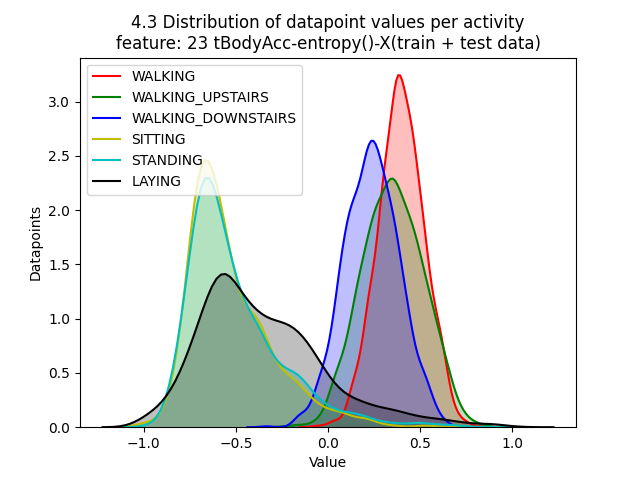
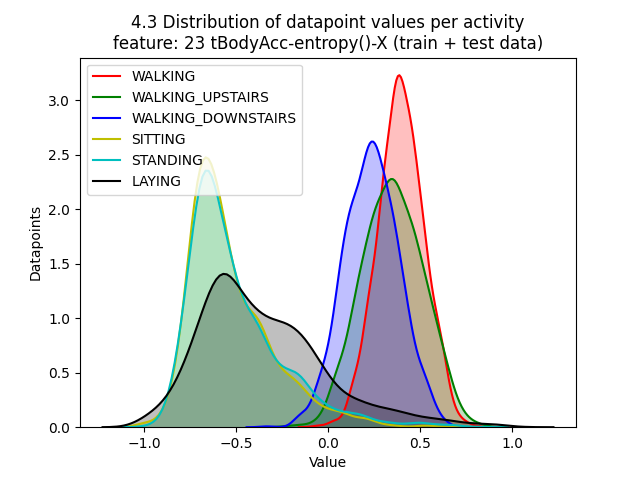
4_9

diff --git a/src/4_9.py b/src/4_9.py
@@ -14,8 +14,8 @@ separator = ','
 df = pd.read_csv(data_file_path, sep=separator, infer_datetime_format=True, parse_dates=['dt'])
 
 # cleanup data (remove NaN)
-df = df[df['AverageTemperature'].notnull()]
-df = df[df['AverageTemperatureUncertainty'].notnull()]
+# //df = df[df['AverageTemperature'].notnull()]
+# //df = df[df['AverageTemperatureUncertainty'].notnull()]
 
 # group data by country
 temps = {g: x for g, x in df.groupby('Country')}
@@ -34,9 +34,9 @@ for i in range(0, len(countries)):
     country = countries[i]
     temp = temps[country]
     # resample data from per month to per year
-    temp = temp.groupby(temp['dt'].dt.year).mean()
-    print(country)
-    print(temp)
+    temp = temp.set_index('dt')
+    # select 1864 up to and including 2012 (consistent between countries)
+    temp = temp[-(12 * 150) + 3:-9]
     selected_temps[country] = temp
     location = int('22' + str(i + 1))
     ax = fig.add_subplot(location)
@@ -45,6 +45,9 @@ for i in range(0, len(countries)):
     ax.set_xlabel('Date')
     ax.set_ylabel('Temperature')
 
+print('a)')
+print('')
+print('The data is shown in 4_9_a.png (per month).')
 fig.tight_layout(rect=[0, 0.03, 1, 0.95])
 plt.savefig(wd[:-4] + '/img/4_9_a.png')
 
@@ -54,50 +57,151 @@ for i in range(0, len(countries)):
         if countries[i] != countries[j]:
             pairs.append((countries[i], countries[j]))
 
+print('')
+print('k nearest neighbour distances between two countries (mean):')
 for pair in pairs:
-    t1 = np.array(list(selected_temps[pair[0]]['AverageTemperature'].to_dict().items()))
-    t2 = np.array(list(selected_temps[pair[1]]['AverageTemperature'].to_dict().items()))
+    t1 = np.array([(g.year, x) for g, x in
+                   list(selected_temps[pair[0]]['AverageTemperature'].to_dict().items()) if not np.isnan(x)])
+    t2 = np.array([(g.year, x) for g, x in
+                   list(selected_temps[pair[1]]['AverageTemperature'].to_dict().items()) if not np.isnan(x)])
     neigh = NearestNeighbors(n_neighbors=1)
-    # print(t1.max())
     neigh.fit(t1)
     dists, inds = neigh.kneighbors(t2)
-    # print(inds)
-    print('{} {} {}'.format(pair[0], pair[1], np.mean(dists)))
+    print('\t{} {} {}'.format(pair[0], pair[1], np.mean(dists)))
+
+print('')
+print('We can see that the temperature data for Norway and Finland is quite similar, and so is the data for Cambodia\n'
+      'and Singapore, since they have the least difference between them. This is to be expected, considering the\n'
+      'geographical locations of the countries.')
 
 # b)
 
+print('')
+print('b)')
+print('')
+print('Dickey-Fuller tests for the four countries:')
 for country in countries:
     temp = selected_temps[country]
+    temp = temp.resample('Y').mean()
     result = adfuller(temp['AverageTemperature'], autolag='AIC')
-    print(country)
-    print('ADF Statistic: %f' % result[0])
-    print('p-value: %f' % result[1])
-    print('Critical Values:')
+    print('\tDickey-Fuller test for ' + country)
+    print('\tADF Statistic: %f' % result[0])
+    print('\tp-value: %f' % result[1])
+    print('\tCritical Values:')
     for key, value in result[4].items():
-        print('\t%s: %.3f' % (key, value))
+        print('\t\t%s: %.3f' % (key, value))
+
+print('')
+print('For Norway and Finland the outcome is good enough for the data to be considered stationary, but not for\n'
+      'Cambodia and Singapore.')
 
 # c)
 
+print('')
+print('c)')
+print('')
+print('The decompositions of the data for the countries is shown in 4_9_Decomposition_[country].png.')
+decomposed_temps = {}
+
 for country in countries:
     temp = selected_temps[country]
-    decomposition = seasonal_decompose(temp['AverageTemperature'])
+    decomposition = seasonal_decompose(temp['AverageTemperature'], extrapolate_trend='freq')
     trend = decomposition.trend
-    print(trend)
     seasonal = decomposition.seasonal
     residual = decomposition.resid
+    decomposed_temps[country] = decomposition
+
     fig = plt.figure()
-    ax = fig.subplot(411)
-    ax.plot(temp['AverageTemperature'][-150:], label='Original')
+    ax = fig.add_subplot(411)
+    ax.plot(temp['AverageTemperature'], label='Original')
     ax.legend(loc='best')
-    ax = fig.subplot(412)
-    ax.plot(temp.index, trend[-150:].values, label='Trend')
+    ax = fig.add_subplot(412)
+    ax.plot(temp.index, trend.values, label='Trend')
     ax.legend(loc='best')
-    ax = fig.subplot(413)
-    ax.plot(ts_euro_week_log_select.index.to_pydatetime(), seasonal[-100:].values, label='Seasonality')
+    ax = fig.add_subplot(413)
+    ax.plot(temp.index, seasonal.values, label='Seasonality')
     ax.legend(loc='best')
-    ax = fig.subplot(414)
-    ax.plot(ts_euro_week_log_select.index.to_pydatetime(), residual[-100:].values, label='Residuals')
+    ax = fig.add_subplot(414)
+    ax.plot(temp.index, residual.values, label='Residuals')
     ax.legend(loc='best')
-    fig.tight_layout()
+    fig.suptitle('Decomposition for ' + country)
+    fig.tight_layout(rect=[0, 0.03, 1, 0.95])
+    plt.savefig(wd[:-4] + '/img/4_9_b_Decompostion_' + country + '.png')
 
+print('')
+print('Dickey-Fuller tests for the four countries:')
+for country in countries:
+    residual = decomposed_temps[country].resid.values
+    residual = np.mean(residual.reshape(-1, 12), axis=1)
+    result = adfuller(residual, autolag='AIC')
+    print('\tDickey-Fuller test after decomposition for ' + country)
+    print('\tADF Statistic: %f' % result[0])
+    print('\tp-value: %f' % result[1])
+    print('\tCritical Values:')
+    for key, value in result[4].items():
+        print('\t\t%s: %.3f' % (key, value))
 
+print('')
+print('For all countries the outcome is good enough for the data to be considered stationary.')
+
+print('')
+print('k nearest neighbour distances between two countries (mean):')
+for pair in pairs:
+    t1 = np.array([(g.year, x) for g, x in
+                   list(decomposed_temps[pair[0]].resid.to_dict().items()) if not np.isnan(x)])
+    t2 = np.array([(g.year, x) for g, x in
+                   list(decomposed_temps[pair[1]].resid.to_dict().items()) if not np.isnan(x)])
+    neigh = NearestNeighbors(n_neighbors=1)
+    neigh.fit(t1)
+    dists, inds = neigh.kneighbors(t2)
+    print('\t{} {} {}'.format(pair[0], pair[1], np.mean(dists)))
+
+print('')
+print('The differenced data for the countries is shown in 4_9_Differencing_[country].png.')
+for country in countries:
+    temp = selected_temps[country]
+    temp_diff = temp['AverageTemperature'] - temp['AverageTemperature'].shift()
+
+    fig = plt.figure()
+    ax = fig.add_subplot(211)
+    ax.plot(temp['AverageTemperature'], label='Original')
+    ax.legend(loc='best')
+    ax = fig.add_subplot(212)
+    ax.plot(temp_diff, label='After Differencing')
+    ax.legend(loc='best')
+    fig.suptitle('Decomposition for ' + country)
+    fig.tight_layout(rect=[0, 0.03, 1, 0.95])
+    plt.savefig(wd[:-4] + '/img/4_9_b_Differencing_' + country + '.png')
+
+print('')
+print('Dickey-Fuller tests for the four countries:')
+for country in countries:
+    temp = selected_temps[country]
+    temp_diff = temp['AverageTemperature'] - temp['AverageTemperature'].shift()
+    temp_diff = temp_diff.resample('Y').mean()
+    result = adfuller(temp_diff, autolag='AIC')
+    print('\tDickey-Fuller test after differencing for ' + country)
+    print('\tADF Statistic: %f' % result[0])
+    print('\tp-value: %f' % result[1])
+    print('\tCritical Values:')
+    for key, value in result[4].items():
+        print('\t\t%s: %.3f' % (key, value))
+
+print('')
+print('For all countries the outcome is good enough for the data to be considered stationary.')
+
+print('')
+print('k nearest neighbour distances between two countries (mean):')
+for pair in pairs:
+    t1 = np.array([(g.year, x) for g, x in
+                   list((selected_temps[pair[0]]['AverageTemperature'] -
+                         (selected_temps[pair[0]]['AverageTemperature'].shift()))
+                        .to_dict().items()) if not np.isnan(x)])
+    t2 = np.array([(g.year, x) for g, x in
+                   list((selected_temps[pair[1]]['AverageTemperature'] -
+                         (selected_temps[pair[1]]['AverageTemperature'].shift()))
+                        .to_dict().items()) if not np.isnan(x)])
+    neigh = NearestNeighbors(n_neighbors=1)
+    neigh.fit(t1)
+    dists, inds = neigh.kneighbors(t2)
+    print('\t{} {} {}'.format(pair[0], pair[1], np.mean(dists)))

diff --git a/src/4_3.py b/src/4_3.py
@@ -58,7 +58,7 @@ for i in range(0, len(chosen_features)):
                      hist=False, rug=False, kde_kws={'shade': True}, label=CLASSES[j + 1], ax=ax)
     ax.legend()
     ax.title.set_text('4.3 Distribution of datapoint values per activity\nfeature: ' + feature[:-1] +
-                      '(train + test data)')
+                      ' (train + test data)')
     ax.set_xlabel('Value')
     ax.set_ylabel('Datapoints')
     plt.savefig(wd[:-4] + '/img/4_3_' +
@@ -108,4 +108,52 @@ print('\tSTANDING:              normal distribution around -0,95, slight right s
 print('\tLAYING:                normal distribution around -0.95, slight right skew, unimodal')
 print('\tCan discriminate between: WALKING, WALKING_UPSTAIRS/WALKING_DOWNSTAIRS, SITTING/STANDING/SLEEPING')
 print('')
-print('\tetc.')  # TODO
+print('208 tBodyAccMag-iqr()')
+print('')
+print('\tWALKING:               almost normal distribution around -0.6, right skew, unimodal')
+print('\tWALKING_UPSTAIRS:      flattened normal distribution around -0.5, slight right skew, unimodal')
+print('\tWALKING_DOWNSTAIRS:    flattened normal distribution around -0.25, no skew, unimodal')
+print('\tSITTING:               normal distribution around -0,95, slight right skew, unimodal')
+print('\tSTANDING:              normal distribution around -0,95, slight right skew, unimodal')
+print('\tLAYING:                normal distribution around -0.95, slight right skew, unimodal')
+print('\tCan discriminate between: WALKING/WALKING_UPSTAIRS, WALKING_DOWNSTAIRS, SITTING/STANDING/SLEEPING')
+print('')
+print('209 tBodyAccMag-entropy()')
+print('')
+print('\tWALKING:               normal distribution around 0.75, no skew, unimodal')
+print('\tWALKING_UPSTAIRS:      normal distribution around 0.85, no skew, unimodal')
+print('\tWALKING_DOWNSTAIRS:    normal distribution around 0.95, no skew, unimodal')
+print('\tSITTING:               normal distribution around -0,75, right skew, unimodal')
+print('\tSTANDING:              normal distribution around -0,6, right skew, unimodal')
+print('\tLAYING:                almost normal distribution around -0.8/-0.4, slight right skew, bimodal')
+print('\tCan discriminate between: WALKING, WALKING_UPSTAIRS, WALKING_DOWNSTAIRS, SITTING/STANDING, SLEEPING')
+print('')
+print('399 tBodyAccJerk-bandsEnergy()-25,32')
+print('')
+print('Difficult to discern any distribution information.')
+print('')
+print('400 tBodyAccJerk-bandsEnergy()-33,40')
+print('')
+print('Difficult to discern any distribution information.')
+print('')
+print('514 fBodyAccMag-skewness()')
+print('')
+print('\tWALKING:               normal distribution around -0.55, no skew, unimodal')
+print('\tWALKING_UPSTAIRS:      normal distribution around -0.5, no skew, unimodal')
+print('\tWALKING_DOWNSTAIRS:    normal distribution around -0.4, no skew, unimodal')
+print('\tSITTING:               normal distribution around -0,65, right skew, unimodal')
+print('\tSTANDING:              normal distribution around -0,5, right skew, unimodal')
+print('\tLAYING:                almost normal distribution around -0.7, right skew, unimodal')
+print('\tCan discriminate between: WALKING/WALKING_DOWNSTAIRS, WALKING_UPSTAIRS, SITTING/SLEEPING, STANDING')
+print('')
+print('515 fBodyAccMag-kurtosis()')
+print('')
+print('\tWALKING:               normal distribution around -0.6, slight right skew, unimodal')
+print('\tWALKING_UPSTAIRS:      normal distribution around -0.55, slight right right skew, unimodal')
+print('\tWALKING_DOWNSTAIRS:    normal distribution around -0.6, slight right skew, unimodal')
+print('\tSITTING:               normal distribution around -0,75, right skew, unimodal')
+print('\tSTANDING:              normal distribution around -0,75, right skew, unimodal')
+print('\tLAYING:                almost normal distribution around -0.75, slight right skew, bimodal')
+print('\tCan discriminate between: WALKING/WALKING_UPSTAIRS/WALKING_DOWNSTAIRS/SITTING/STANDING/SLEEPING')
+print('')
+

diff --git a/src/4_6.py b/src/4_6.py
@@ -59,10 +59,18 @@ ax.title.set_text('4.6 a) Frequency spectrum of\nsin(4 pi t) + 0,8 sin(8 pi t) +
 ax.set_xlabel('Frequency')
 ax.set_ylabel('Amplitude')
 plt.savefig(wd[:-4] + '/img/4_6_sine.png')
+print('The frequency spectrum of the sine wave can be found in 4_6_sine.png. This was used to test the implementation.')
+print('The variables are: n = 1000, dt = 1/200 (= 1/fs), max_freq = 60 and nyquist = 1/2dt.')
+print('The sine is: sin(2 * 2 pi t) + 0.8 sin(4 * 2 pi t) + 0.5 sin(6 * 2 pi t) + 0.2 sin(60 * 2 pi t)')
 
 fig = plt.figure()
 fig.suptitle('4.6 a) Frequency spectrum of body_acc_z_train (classified)', size=12)
 
+print('')
+print('a)')
+print('')
+print('\tThe frequency spectra of the signal can be found in 4_6_signal.png, as well as in 4_6_[class].png.')
+print('\tThe variables are: n = [length of class data] anddt = 1/50 (= 1/fs).')
 for i in range(0, 6):
     signal = classified_signal[i]
 
@@ -98,3 +106,9 @@ for i in range(0, 6):
     ax.set_xlabel('Frequency')
     ax.set_ylabel('Amplitude')
     plt.savefig(wd[:-4] + '/img/4_6_' + CLASSES[i + 1] + '.png')
+
+print('')
+print('b)')
+print('')
+print('\tAgain, similar to 4.5, we can mostly discriminate between the three walking and the three stationary classes\n'
+      '\twhile discriminating between the classes within those categories might be difficult.')

diff --git a/src/4_5.py b/src/4_5.py
@@ -96,4 +96,7 @@ plt.savefig(wd[:-4] + '/img/4_5_dists.png')
 print('')
 print('b)')
 print('')
-print('TODO')  # TODO
+print('\tIt would be quite difficult to discriminate between the classes purely based on these distributions. If we\n'
+      '\tlook at small differences we could discriminate all three walking activities separately (based on steepness\n'
+      '\tand height of the distribution, but between the three stationary activities it would be very difficult. We\n'
+      '\tcan see this in the plot in 4_5_dists.png.')
